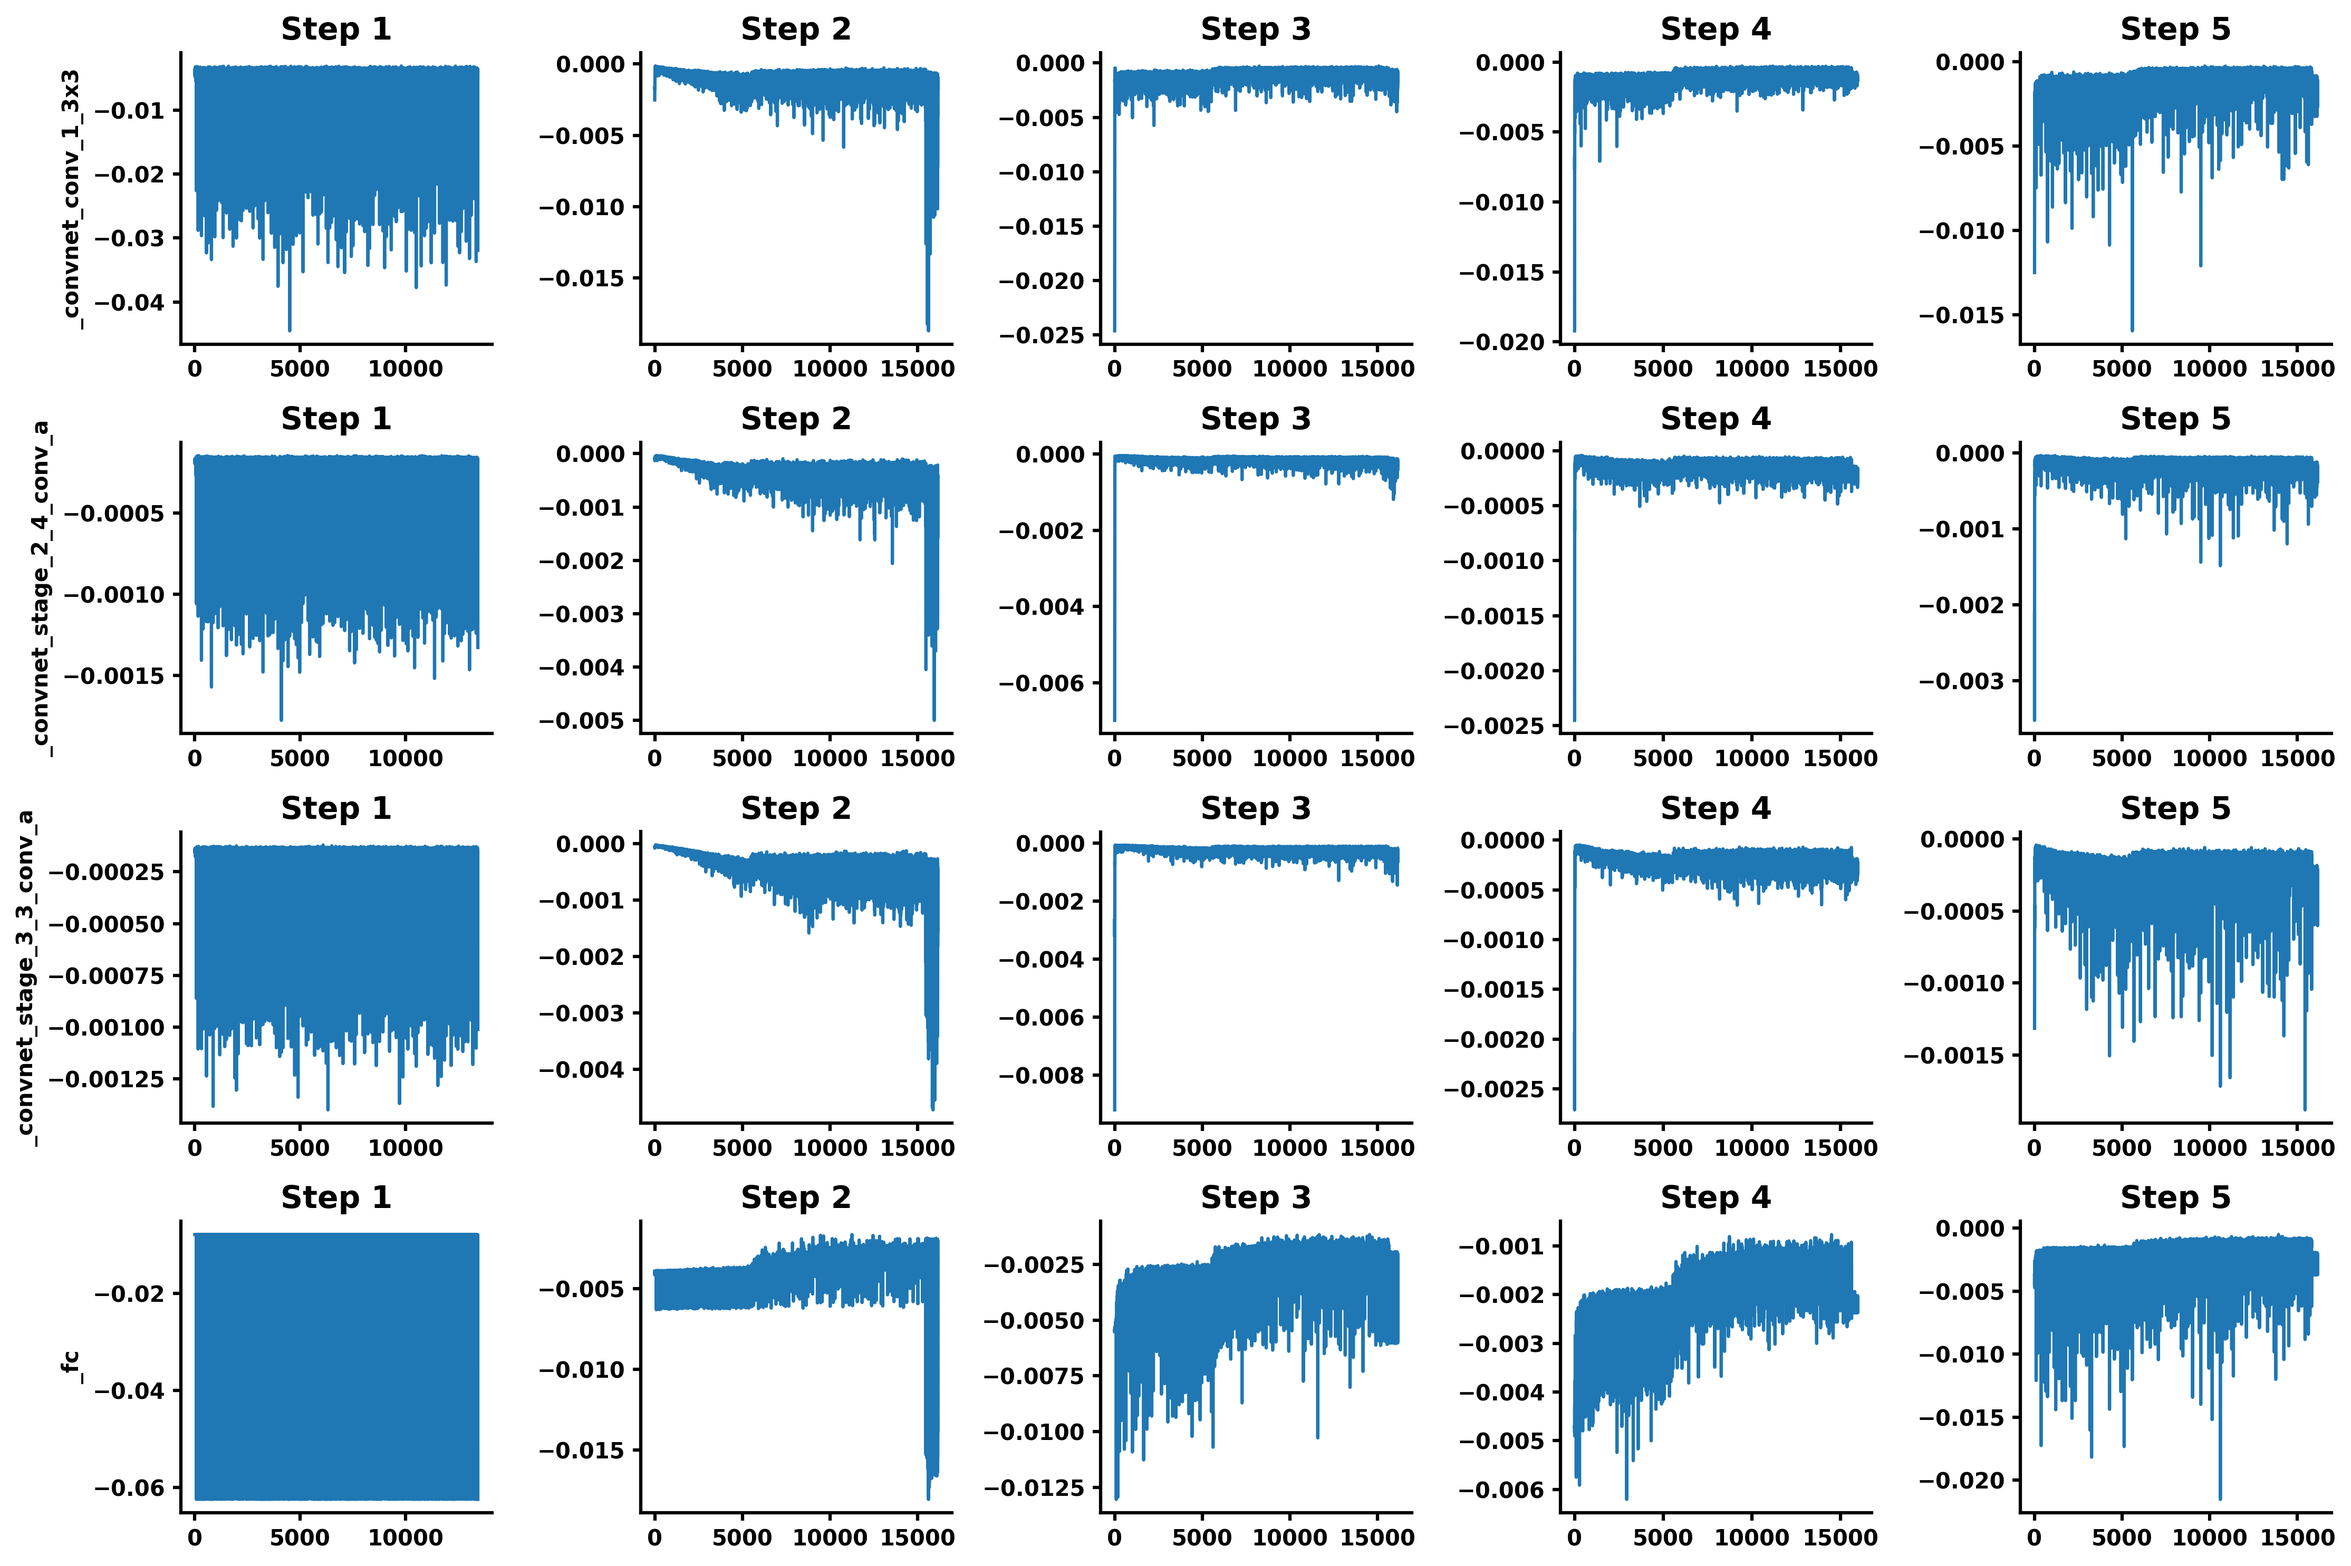
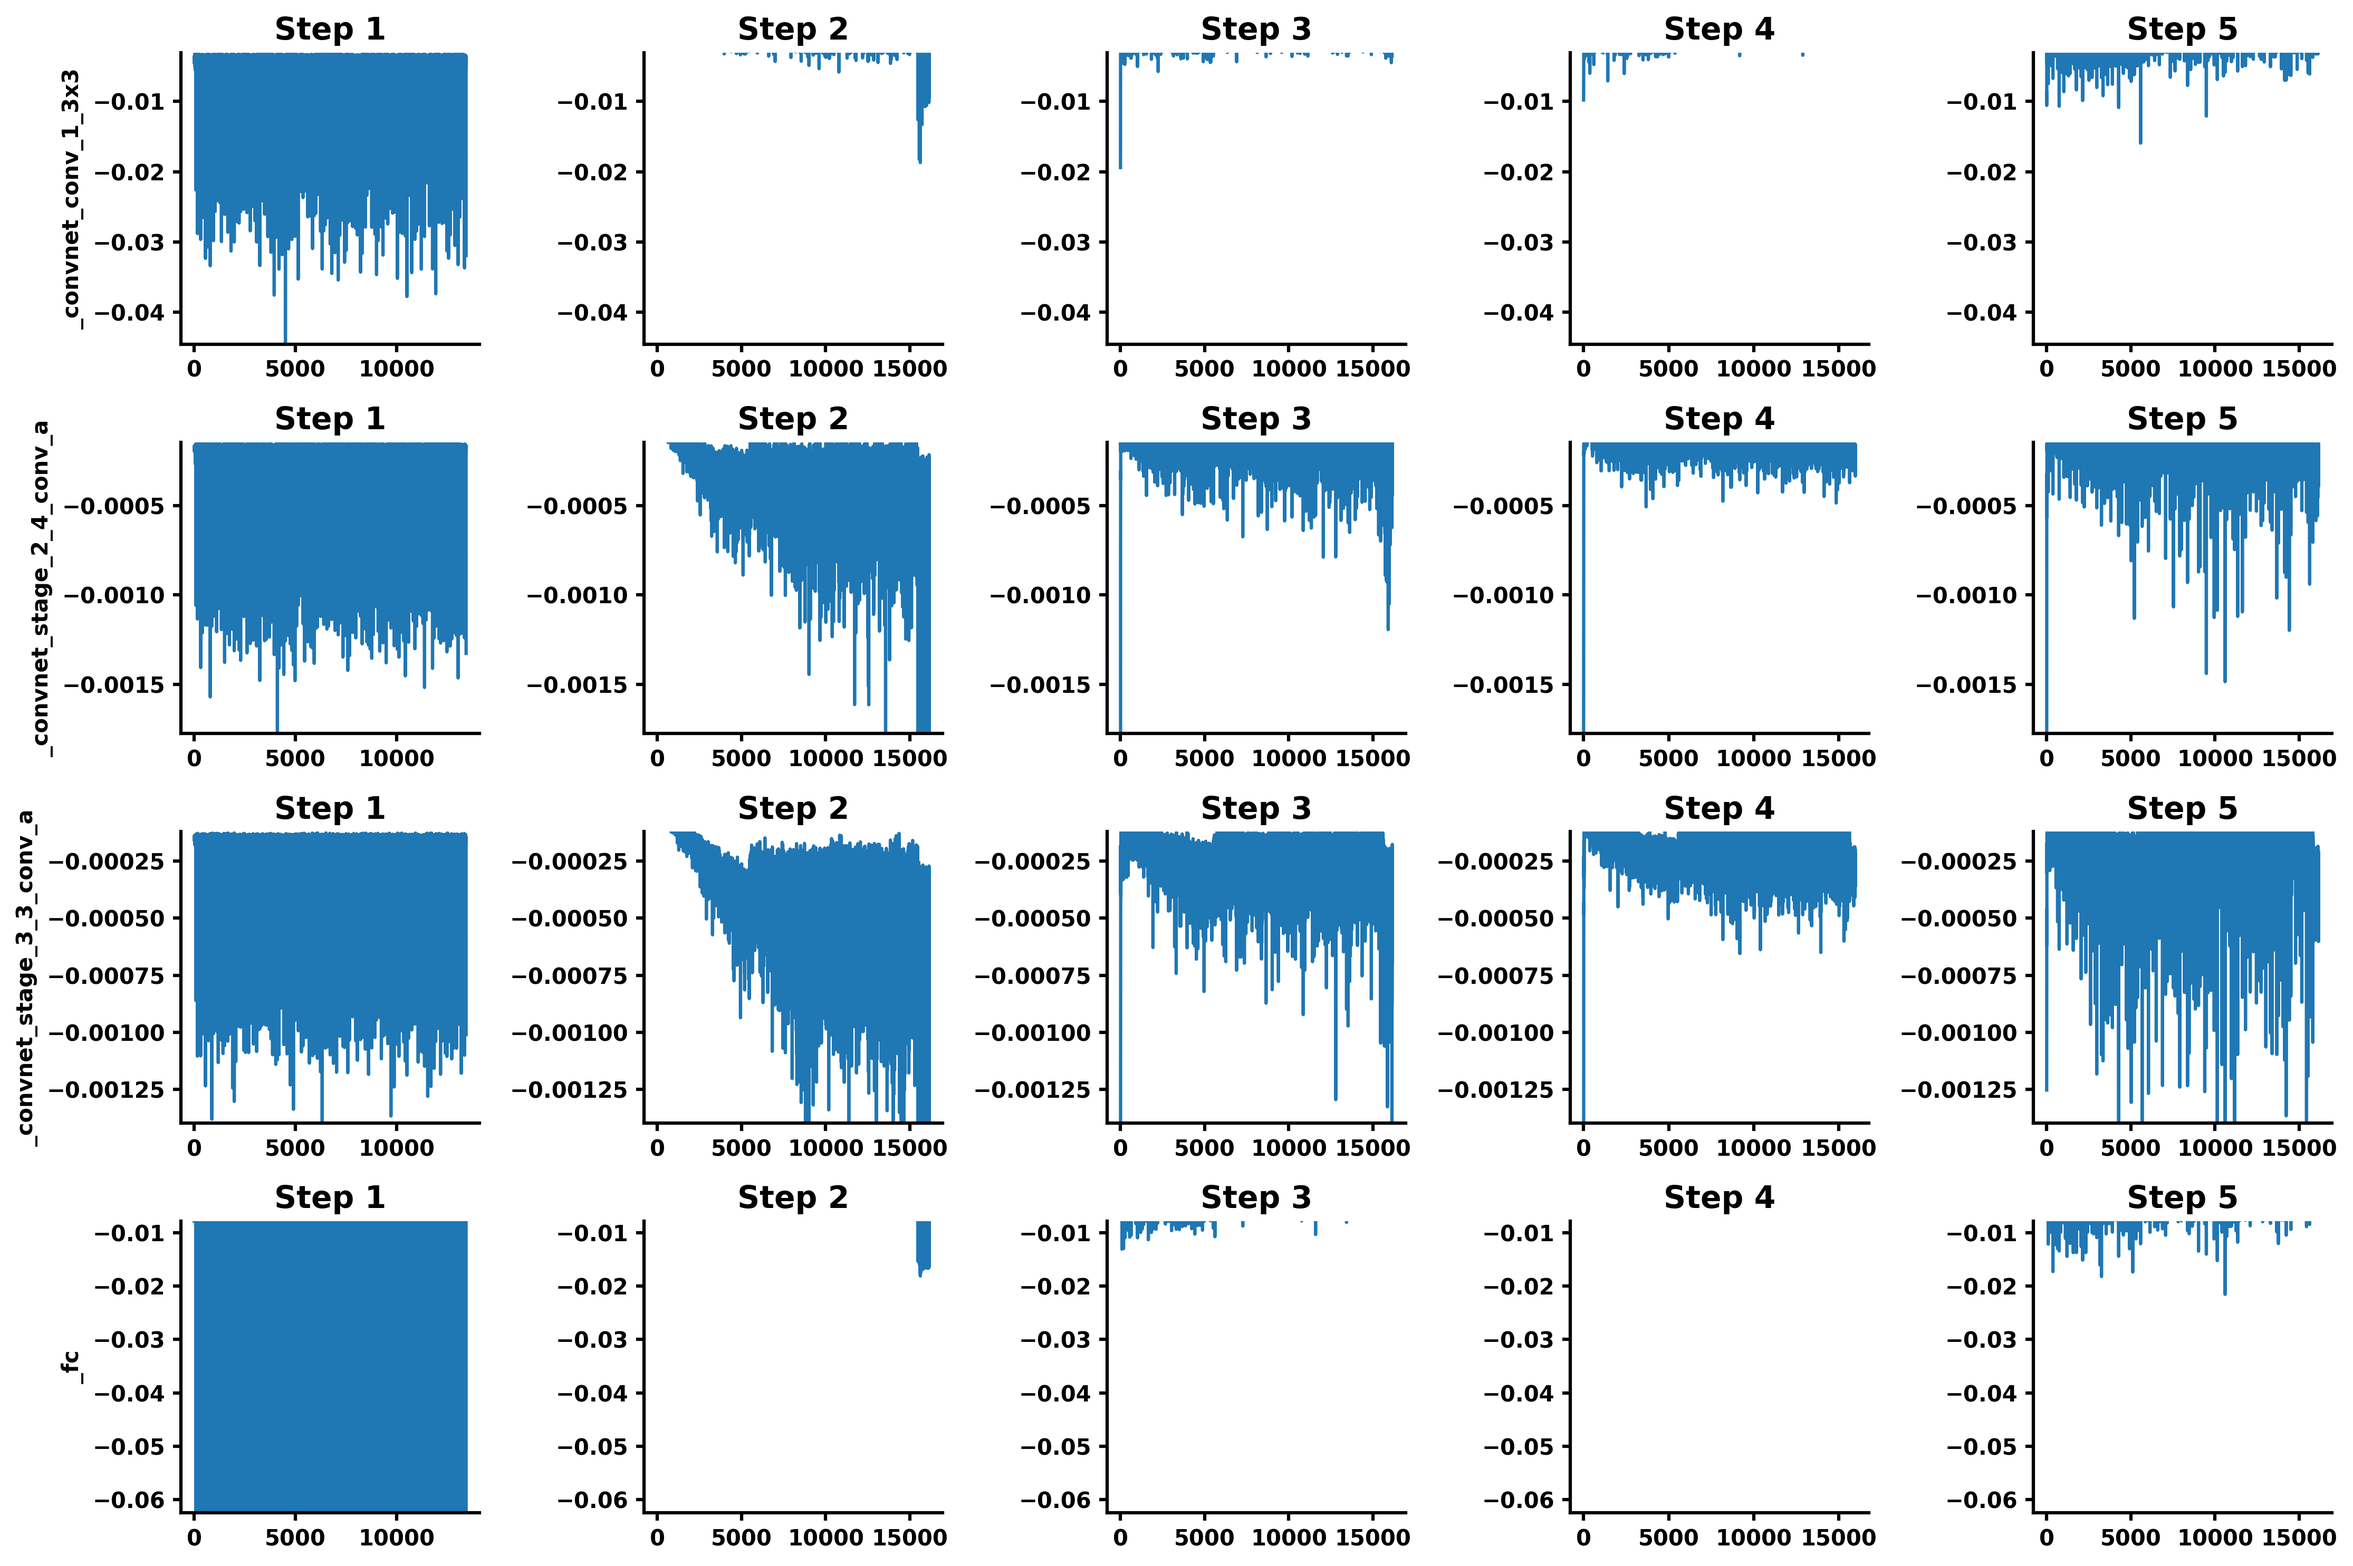
normal - test

diff --git a/vis_stats_grads.py b/vis_stats_grads.py
@@ -30,7 +30,7 @@ plt.rc('font', family='Roboto', weight='bold')
 track_layer_list = ['_convnet_conv_1_3x3', #  '_convnet_stage_1_2_conv_b',
                     '_convnet_stage_2_4_conv_a', '_convnet_stage_3_3_conv_a', '_fc']
 
-def prep_plot(data, posi, posj, title, xlabel, ylabel):
+def prep_plot(data, posi, posj, title, xlabel, ylabel, range_y):
 
   ax[posi][posj].set_title(title, {'fontsize': font_size, 'fontweight':'bold',})
 
@@ -56,7 +56,8 @@ def prep_plot(data, posi, posj, title, xlabel, ylabel):
 
   # data = data[data != 0]
   # ax[posi][posj].set_yscale('log')
-  ax[posi][posj].plot(data, lw = gen_linewidth)
+  ax[posi][posj].plot(data[1:], lw = gen_linewidth)
+  ax[posi][posj].set_ylim(range_y[0], range_y[1])
   # ax[posi][posj].hist(data, range = range_g, bins=50)
 
 
@@ -69,19 +70,20 @@ for stat_name in ['max', 'min', 'norm', 'mean']:
   for layer_name in track_layer_list:
 
     data = np.load('track_stats/23_07_31_13_00_cifar100_lwf_0'+layer_name+'_'+stat_name+'.npy')
-    prep_plot(data, i, 0, 'Step 1', '', layer_name)
+    range_y = [data.min(), data.max()]
+    prep_plot(data, i, 0, 'Step 1', '', layer_name, range_y)
 
     data = np.load('track_stats/23_07_31_13_26_cifar100_lwf_1'+layer_name+'_'+stat_name+'.npy')
-    prep_plot(data, i, 1, 'Step 2', '', '')
+    prep_plot(data, i, 1, 'Step 2', '', '', range_y)
 
     data = np.load('track_stats/23_07_31_13_51_cifar100_lwf_2'+layer_name+'_'+stat_name+'.npy')
-    prep_plot(data, i, 2, 'Step 3', '', '')
+    prep_plot(data, i, 2, 'Step 3', '', '', range_y)
 
     data = np.load('track_stats/23_07_31_14_16_cifar100_lwf_3'+layer_name+'_'+stat_name+'.npy')
-    prep_plot(data, i, 3, 'Step 4', '', '')
+    prep_plot(data, i, 3, 'Step 4', '', '', range_y)
 
     data = np.load('track_stats/23_07_31_14_41_cifar100_lwf_4'+layer_name+'_'+stat_name+'.npy')
-    prep_plot(data, i, 4, 'Step 5', '', '')
+    prep_plot(data, i, 4, 'Step 5', '', '', range_y)
 
     i += 1
 
@@ -102,19 +104,20 @@ for stat_name in ['max', 'min', 'norm', 'mean']:
   for layer_name in track_layer_list:
 
     data = np.load('track_stats/23_07_31_12_56_cifar100_icarl_0'+layer_name+'_'+stat_name+'.npy')
-    prep_plot(data, i, 0, 'Step 1', '', layer_name)
+    range_y = [data.min(), data.max()]
+    prep_plot(data, i, 0, 'Step 1', '', layer_name, range_y)
 
     data = np.load('track_stats/23_07_31_13_15_cifar100_icarl_1'+layer_name+'_'+stat_name+'.npy')
-    prep_plot(data, i, 1, 'Step 2', '', '')
+    prep_plot(data, i, 1, 'Step 2', '', '', range_y)
 
     data = np.load('track_stats/23_07_31_13_36_cifar100_icarl_2'+layer_name+'_'+stat_name+'.npy')
-    prep_plot(data, i, 2, 'Step 3', '', '')
+    prep_plot(data, i, 2, 'Step 3', '', '', range_y)
 
     data = np.load('track_stats/23_07_31_13_59_cifar100_icarl_3'+layer_name+'_'+stat_name+'.npy')
-    prep_plot(data, i, 3, 'Step 4', '', '')
+    prep_plot(data, i, 3, 'Step 4', '', '', range_y)
 
     data = np.load('track_stats/23_07_31_14_20_cifar100_icarl_4'+layer_name+'_'+stat_name+'.npy')
-    prep_plot(data, i, 4, 'Step 5', '', '')
+    prep_plot(data, i, 4, 'Step 5', '', '', range_y)
 
     i += 1
 
@@ -139,22 +142,23 @@ for stat_name in ['max', 'min', 'norm', 'mean']:
       data = np.load('track_stats/23_07_31_12_50_cifar100_bic_0'+layer_name+'_'+stat_name+'.npy')
     except:
       data = np.load('track_stats/23_07_31_12_49_cifar100_bic_0'+layer_name+'_'+stat_name+'.npy')
-    prep_plot(data, i, 0, 'Step 1', '', layer_name)
+    range_y = [data.min(), data.max()]
+    prep_plot(data, i, 0, 'Step 1', '', layer_name, range_y)
 
     try:
       data = np.load('track_stats/23_07_31_13_26_cifar100_bic_1'+layer_name+'_'+stat_name+'.npy')
     except:
       data = np.load('track_stats/23_07_31_13_25_cifar100_bic_1'+layer_name+'_'+stat_name+'.npy')
-    prep_plot(data, i, 1, 'Step 2', '', '')
+    prep_plot(data, i, 1, 'Step 2', '', '', range_y)
 
     data = np.load('track_stats/23_07_31_14_04_cifar100_bic_2'+layer_name+'_'+stat_name+'.npy')
-    prep_plot(data, i, 2, 'Step 3', '', '')
+    prep_plot(data, i, 2, 'Step 3', '', '', range_y)
 
     data = np.load('track_stats/23_07_31_14_43_cifar100_bic_3'+layer_name+'_'+stat_name+'.npy')
-    prep_plot(data, i, 3, 'Step 4', '', '')
+    prep_plot(data, i, 3, 'Step 4', '', '', range_y)
 
     data = np.load('track_stats/23_07_31_15_24_cifar100_bic_4'+layer_name+'_'+stat_name+'.npy')
-    prep_plot(data, i, 4, 'Step 5', '', '')
+    prep_plot(data, i, 4, 'Step 5', '', '', range_y)
 
     i += 1
 
